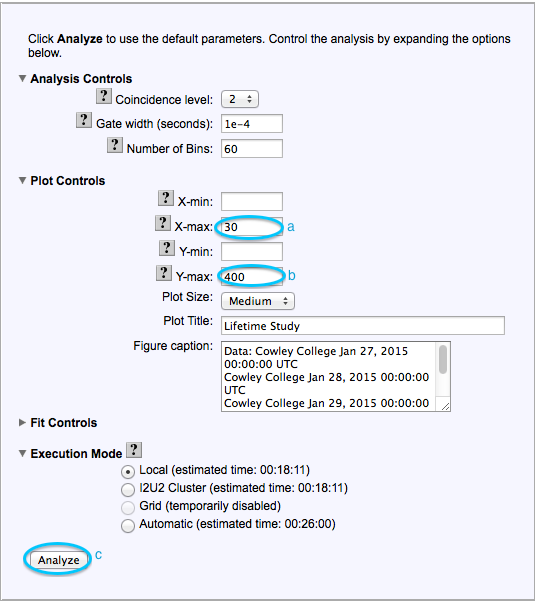
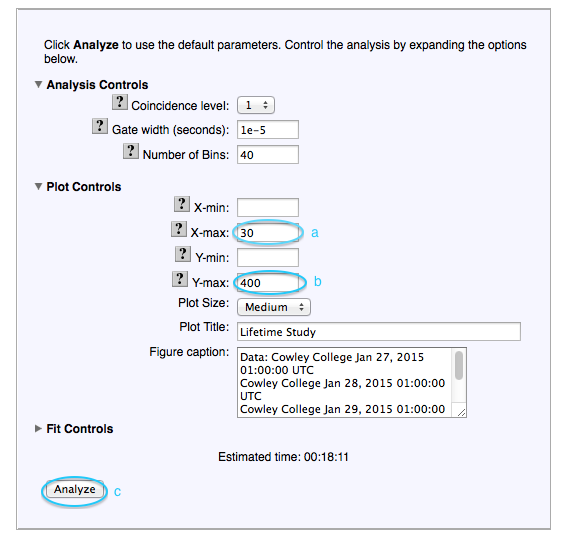
Lifetime Step-by-Step changes

Changed region(s): [[0.0, 0.0, 1.0, 1.0]]

diff --git a/cosmic/src/jsp/analysis-lifetime/tryit.html b/cosmic/src/jsp/analysis-lifetime/tryit.html
@@ -166,13 +166,10 @@
 					<td>
 						Look at the number of events in each channel. Use the default
 						analysis parameters: Coincidence level of <b>1</b>, Gate width 
-						of 1e<sup>-5</sup> seconds and Number of bins of 40.<BR> Click on the question marks 
-						 to learn 
-						more about each of these.  <br>The execution mode is set to "Local."  For this example, we
-						will always execute the analysis on the local machine. You can experiment with how
-						changing the execution mode to the I2U2 cluster affects how long it takes
-						to do your analysis.  There are some estimates of how much time each might take.
-						<br>Click <b>Analyze</b> to use these parameters.
+						of 1e<sup>-5</sup> seconds and Number of bins of 40.<BR> Click on the question marks to learn 
+						more about each of these.  
+						<br>
+						Click <b>Analyze</b> to use these parameters.
 					</td>
 				</tr>
 				<tr>
@@ -247,15 +244,13 @@
 					<td valign="top">Step 7:</td>
 					<td>
 						The plot in the poster has the following analysis parameters:
-						<br>Coincidence level=2, Gate 
-						width: 1 e-4 seconds, and Number of Bins: 60. 
-						<br>a) Choose <b>2</b> in the pulldown list for <b>Coincidence level</b>.<br>
-						b) Change 
-						the<b> Gate width</b> to <b>1 e<sup>-4</sup></b>.<BR>
-						c) Change the <b>number of bins</b> to <b>60</b><br>
-						d) To recreate the 
-						plot, you will need to use the plot controls.<br>Click on the small 
-						arrow to view the "<b>Plot Controls</b>".
+						<br>Coincidence level=2, Gate width: 1 e-4 seconds, and Number of Bins: 60. 
+						<br>
+						a) Choose <b>2</b> in the pulldown list for <b>Coincidence level</b>.<br>
+						b) Change the<b> Gate width</b> to <b>1 e<sup>-4</sup></b>.<BR>
+						c) Change the <b>number of bins</b> to <b>60</b>.<br>
+						d) We can also use <b>Plot Controls</b> to change scales on the plot.<br>Click on the small 
+						arrow next to <b>Plot Controls</b>.
 					</td>
 				</tr>
 				<tr>
@@ -326,7 +321,8 @@
 				<tr>
 					<td valign="top">Step 11:</td>
 					<td>
-						Now we have a fit to our curve. For now, this is the plot we want to save.  You can go back and change parameters to get a better fit.
+						Now we have a fit to our curve. For now, this is the plot we want to save.  You can go back and change parameters to get a better fit.  
+						Notice that these fit results indicate a muon lifetime of approximately 1.00 microsecond.  
 					</td>
 				</tr>
 				<tr>
@@ -343,7 +339,7 @@
 						Enter a name for the plot similar to, but not the same as, the one 
 						shown.  Then click <b>Save Plot.</B> If you do this tutorial more 
 						than once, choose another name for the plot.
-						<br>You will have access to this plot for your poster.
+						<br>You will have access to this plot for any poster you create.
 					</td>
 				</tr>
 				<tr>
